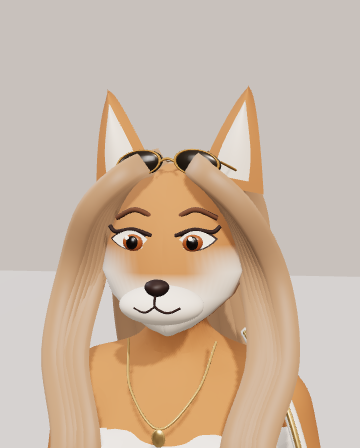
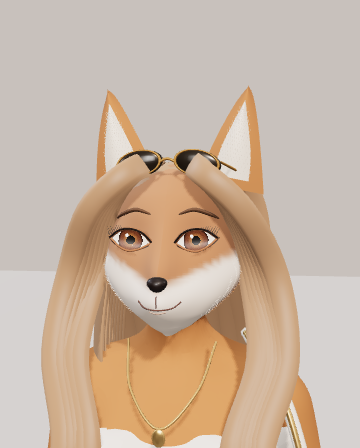
feat: sculpt detailed Sable face with independent iris gaze

diff --git a/preview/src/sable-face.js b/preview/src/sable-face.js
@@ -1,0 +1,155 @@
+import * as THREE from 'three';
+
+// Reference-led facial sculpt in metres. All resources are registered with the
+// owning look, so local and remote instances never mutate the cached rig.
+export function createSableFace(head, { add, ball, tube, material, textures }) {
+  const smooth = THREE.MathUtils.smoothstep;
+  const gauss = (x, width) => Math.exp(-((x / width) ** 2));
+  const amber = new THREE.Color('#ad7147'), ivory = new THREE.Color('#f3e4d6');
+  const dark = material('#211512', { roughness: .44 });
+  const furPixels = new Uint8Array(256 * 256 * 4);
+  for (let y = 0; y < 256; y++) for (let x = 0; x < 256; x++) {
+    const strand = Math.sin(x * 2.35 + Math.sin(y * .055) * 2.5);
+    const grain = Math.sin(x * 12.9898 + y * 78.233) * 43758.5453;
+    const value = 128 + strand * 25 + (grain - Math.floor(grain) - .5) * 18;
+    const n = (y * 256 + x) * 4;
+    furPixels[n] = furPixels[n + 1] = furPixels[n + 2] = value; furPixels[n + 3] = 255;
+  }
+  const fur = new THREE.DataTexture(furPixels, 256, 256);
+  fur.wrapS = fur.wrapT = THREE.RepeatWrapping; fur.repeat.set(3, 2); fur.needsUpdate = true; textures.add(fur);
+  const faceMaterial = material('#ffffff', { vertexColors: true, roughness: .84, bumpMap: fur, bumpScale: .00035, sheen: .22, sheenColor: ivory });
+
+  // Smooth radii, recessed sockets, nose bridge and paired muzzle pads belong
+  // to a single continuous surface rather than a stack of intersecting spheres.
+  const rings = [
+    [-.083,.009,.036,.023],[-.072,.029,.051,.025],[-.052,.055,.064,.027],
+    [-.027,.083,.078,.015],[.001,.101,.087,.003],[.036,.098,.094,-.004],
+    [.071,.094,.086,-.008],[.108,.080,.076,-.012],[.138,.055,.056,-.016],
+    [.154,.023,.029,-.018],[.158,0,0,-.018],
+  ];
+  function section(y) {
+    let i = 0; while (i < rings.length - 2 && y > rings[i + 1][0]) i++;
+    const t = THREE.MathUtils.clamp((y - rings[i][0]) / (rings[i + 1][0] - rings[i][0]), 0, 1);
+    return [1, 2, 3].map(k => {
+      const p0 = rings[Math.max(0, i - 1)][k], p1 = rings[i][k], p2 = rings[i + 1][k], p3 = rings[Math.min(rings.length - 1, i + 2)][k];
+      return .5 * ((2*p1) + (-p0+p2)*t + (2*p0-5*p1+4*p2-p3)*t*t + (-p0+3*p1-3*p2+p3)*t*t*t);
+    });
+  }
+  function surface(y, angle) {
+    const [rx, rz, cz] = section(y), front = Math.max(0, Math.cos(angle));
+    const x = Math.sin(angle) * Math.max(0, rx);
+    const muzzle = .031 * gauss(y + .032, .028) * Math.exp(-((x / .052) ** 4));
+    const bridge = .011 * gauss(x, .018) * gauss(y - .014, .055) + .019*gauss(x,.021)*gauss(y-.006,.021);
+    const socket = .010 * gauss(Math.abs(x) - .043, .025) * gauss(y - .049, .023);
+    return new THREE.Vector3(x, y, Math.cos(angle) * Math.max(0, rz) + cz + front ** 6 * (muzzle + bridge - socket));
+  }
+  function furColor(p, front) {
+    const feather = .0017 * Math.sin(p.x * 1900 + Math.sin(p.y * 270) * 2);
+    const marking = 1 - smooth(p.y + feather, -.025 + Math.abs(p.x) * .48, -.005 + Math.abs(p.x) * .48);
+    const color = amber.clone().lerp(ivory, marking * smooth(front, .05, .45));
+    const eyeshadow = gauss(Math.abs(p.x) - .045, .025) * gauss(p.y - .067, .022) * smooth(front, .5, .9);
+    return color.multiplyScalar(1 - eyeshadow * .22);
+  }
+  const rows = 80, cols = 96, positions = [], colors = [], uv = [], indices = [];
+  for (let row = 0; row <= rows; row++) for (let col = 0; col <= cols; col++) {
+    const y = -.083 + row / rows * .241, angle = col / cols * Math.PI * 2;
+    const p = surface(y, angle), c = furColor(p, Math.max(0, Math.cos(angle)));
+    positions.push(...p); colors.push(c.r, c.g, c.b); uv.push(col / cols, row / rows);
+    if (row < rows && col < cols) { const n = row * (cols + 1) + col; indices.push(n,n+1,n+cols+1,n+1,n+cols+2,n+cols+1); }
+  }
+  const skull = new THREE.BufferGeometry();
+  skull.setAttribute('position', new THREE.Float32BufferAttribute(positions, 3));
+  skull.setAttribute('color', new THREE.Float32BufferAttribute(colors, 3));
+  skull.setAttribute('uv', new THREE.Float32BufferAttribute(uv, 2)); skull.setIndex(indices); skull.computeVertexNormals();
+  add(head, skull, faceMaterial, [0,0,0], [1,1,1], 'Sable sculpted face');
+
+  // A softly rounded triangular nose sits into the integrated nasal bridge.
+  const nose=ball(head,material('#251b18',{roughness:.42,clearcoat:.2}),[0,-.006,.124],[.016,.010,.011],'Sable nose');
+  const np=nose.geometry.attributes.position;
+  for(let i=0;i<np.count;i++)np.setX(i,np.getX(i)*(.58+.42*(np.getY(i)+1)/2));
+  nose.geometry.computeVertexNormals();
+  for(const side of [-1,1])ball(head,dark,[side*.009,-.005,.132],[.0028,.0017,.0011],'Sable nostril');
+  const mouth = material('#644238', { roughness: .8 });
+  const onFace = points => points.map(([x,y]) => {
+    const [rx] = section(y), p = surface(y, Math.asin(THREE.MathUtils.clamp(x/rx,-1,1)));
+    return [x,y,p.z+.0007];
+  });
+  const philtrum=onFace([[0,-.020],[0,-.027],[0,-.035]]);
+  tube(head, mouth, philtrum, .00065, 'Sable philtrum');
+  tube(head, mouth, onFace([[-.028,-.029],[-.019,-.036],[0,-.038],[.019,-.036],[.028,-.029]]), .00085, 'Sable smile');
+  const lip = material('#c49b86', { roughness: .85 });
+  tube(head, lip, onFace([[-.011,-.041],[0,-.043],[.011,-.041]]), .0008, 'Sable lower lip');
+
+  // Radial chestnut iris fibres, warm collarette and dark limbal ring. Keeping
+  // the texture deterministic avoids per-instance visual shimmer or drift.
+  const irisPixels = new Uint8Array(256 * 256 * 4);
+  const irisBase=new THREE.Color('#754329'), irisGold=new THREE.Color('#bd8247'), irisColor=new THREE.Color();
+  for (let y = 0; y < 256; y++) for (let x = 0; x < 256; x++) {
+    const dx = (x-127.5)/127.5, dy = (y-127.5)/127.5, r = Math.hypot(dx,dy), a = Math.atan2(dy,dx);
+    const irisRadius = r / .57;
+    const fibre = Math.sin(a*93 + Math.sin(r*31)*.8)*.09 + Math.sin(a*173-r*13)*.045;
+    const ring = 1 - smooth(irisRadius,.78,1)*.78;
+    const c = irisColor.copy(irisBase).lerp(irisGold, (1-smooth(irisRadius,.35,.72))*.52).multiplyScalar((.90+fibre)*ring);
+    if (irisRadius < .36) c.set('#110c09');
+    if (irisRadius > 1) c.set('#f5e9d9');
+    const n = (y*256+x)*4;c.convertLinearToSRGB();irisPixels[n]=c.r*255;irisPixels[n+1]=c.g*255;irisPixels[n+2]=c.b*255;irisPixels[n+3]=255;
+  }
+  const irisMap = new THREE.DataTexture(irisPixels,256,256);irisMap.colorSpace=THREE.SRGBColorSpace;irisMap.needsUpdate=true;textures.add(irisMap);
+
+  const lid = material('#9f6845',{roughness:.8});
+  const glint = material('#fff8ee',{emissive:'#b0a396',roughness:.1});
+  function brow(points) {
+    const curve=new THREE.CatmullRomCurve3(points.map(p=>new THREE.Vector3(...p)));
+    const geometry=new THREE.TubeGeometry(curve,40,.0028,8,false),p=geometry.attributes.position;
+    for(let row=0;row<=40;row++){
+      const center=curve.getPointAt(row/40),taper=.08+.92*Math.sin(Math.PI*row/40)**.45;
+      for(let col=0;col<=8;col++){const i=row*9+col;const v=new THREE.Vector3().fromBufferAttribute(p,i).sub(center).multiplyScalar(taper).add(center);p.setXYZ(i,v.x,v.y,v.z);}
+    }
+    geometry.computeVertexNormals();add(head,geometry,material('#674934'),[0,0,0],[1,1,1],'Sable brow');
+  }
+  const eyes=[];
+  for (const side of [-1,1]) {
+    const socket=new THREE.Group();socket.name=`Sable eye ${side}`;socket.position.set(side*.044,.049,.075);socket.rotation.z=side*.12;head.add(socket);
+    const opening=new THREE.Group();opening.name='Sable eyelid opening';socket.add(opening);eyes.push(opening);
+    const almond=new THREE.Shape();almond.moveTo(-.029,0);almond.bezierCurveTo(-.016,.020,.014,.020,.029,0);almond.bezierCurveTo(.014,-.017,-.014,-.017,-.029,0);
+    const eyeGeometry=new THREE.ShapeGeometry(almond,32),ep=eyeGeometry.attributes.position;
+    for(let i=0;i<ep.count;i++)ep.setZ(i,.010+.007*(1-(ep.getX(i)/.029)**2));eyeGeometry.computeVertexNormals();
+    add(opening,eyeGeometry.clone(),dark,[0,0,-.0006],[1.07,1.07,1]);
+    const eyeMap=irisMap.clone();eyeMap.needsUpdate=true;textures.add(eyeMap);opening.userData.irisMap=eyeMap;
+    const eyeUV=eyeGeometry.attributes.uv;
+    for(let i=0;i<ep.count;i++)eyeUV.setXY(i,ep.getX(i)/.058+.5,ep.getY(i)/.058+.5);
+    add(opening,eyeGeometry,material('#ffffff',{map:eyeMap,roughness:.42,clearcoat:.12}),[0,0,0],[1,1,1],'Sable chestnut eye');
+    const eyeball = new THREE.Group();eyeball.name='Sable iris gaze';opening.add(eyeball);
+    ball(eyeball,glint,[-.004,.006,.018],[.0023,.0028,.0008],'Sable eye catchlight');
+    ball(eyeball,glint,[.005,-.006,.018],[.0008,.0008,.0005]);
+    // Lid curves move with the opening: no floating eyeliner when blinking.
+    tube(opening,lid,[[-.029,0,.010],[-.015,.0115,.016],[0,.015,.018],[.016,.0115,.016],[.029,0,.010]],.0024,'Sable upper eyelid');
+    tube(opening,dark,[[-.029,0,.012],[-.015,.0115,.018],[0,.015,.020],[.016,.0115,.018],[.029,0,.012]],.0013,'Sable upper lashes');
+    tube(opening,lid,[[-.029,0,.010],[-.014,-.010,.016],[0,-.014,.018],[.014,-.010,.016],[.029,0,.010]],.0014,'Sable lower eyelid');
+    // Tapered individual lashes are merged into one mesh per eye.
+    const lashes=[],lashIndices=[];
+    for(let i=0;i<9;i++){
+      const t=i/8,x=side*(.009+t*.018),y=.015*(1-(Math.abs(x)/.031)**2),length=.004+t*.006;
+      const start=lashes.length/3;
+      lashes.push(x-.0006,y,.019,x+.0006,y,.019,x+side*length*.75,y+length,.018);
+      lashIndices.push(start,start+1,start+2);
+    }
+    const lashGeometry=new THREE.BufferGeometry();lashGeometry.setAttribute('position',new THREE.Float32BufferAttribute(lashes,3));lashGeometry.setIndex(lashIndices);lashGeometry.computeVertexNormals();
+    add(opening,lashGeometry,material('#211512',{side:THREE.DoubleSide,roughness:.65}),[0,0,0],[1,1,1],'Sable individual lashes');
+    brow([[side*.019,.083,.076],[side*.039,.089,.076],[side*.060,.083,.067],[side*.071,.077,.057]]);
+  }
+
+  // Short swept cheek fibres soften the silhouette without a separate mesh per
+  // strand. Their colors follow the same mask as the continuous face beneath.
+  const fibres=[],fibreColors=[];
+  for(const side of [-1,1])for(let i=0;i<360;i++){
+    const t=((i*137)%367)/367,y=-.052+t*.077,angle=side*(1.02+((i*79)%359)/359*.51);
+    const p=surface(y,angle),c=furColor(p,Math.max(0,Math.cos(angle)));
+    const end=p.clone().add(new THREE.Vector3(side*(.0015+(i%5)*.00035),-.0015,.0005));
+    fibres.push(p.x,p.y+.00028,p.z+.0002,p.x,p.y-.00028,p.z+.0002,...end);
+    for(let k=0;k<3;k++)fibreColors.push(c.r,c.g,c.b);
+  }
+  const fuzz=new THREE.BufferGeometry();fuzz.setAttribute('position',new THREE.Float32BufferAttribute(fibres,3));fuzz.setAttribute('color',new THREE.Float32BufferAttribute(fibreColors,3));fuzz.computeVertexNormals();
+  add(head,fuzz,material('#ffffff',{vertexColors:true,roughness:1,side:THREE.DoubleSide}),[0,0,0],[1,1,1],'Sable cheek fur');
+  return eyes;
+}

diff --git a/preview/src/sable-look.js b/preview/src/sable-look.js
@@ -1,6 +1,7 @@
 import * as THREE from 'three';
 import { mergeGeometries } from 'three/addons/utils/BufferGeometryUtils.js';
 import { createReferenceStyle } from './reference-archetypes.js';
+import { createSableFace } from './sable-face.js';
 
 // Sable owns her geometry. The shared Jevica template, skeleton and other looks
 // remain untouched. Coordinates below are metres in each bone's rest frame.
@@ -33,8 +34,7 @@ export function createSableLook(avatar, root, appearance) {
   }
   const furMap=new THREE.DataTexture(texels,128,128);furMap.wrapS=furMap.wrapT=THREE.RepeatWrapping;furMap.needsUpdate=true;textures.add(furMap);
 
-  const cream = material('#f6e7d6',{roughness:.9});
-  const dark = material('#33201c',{roughness:.48}), gold = material('#c39553',{metalness:.8,roughness:.25});
+  const gold = material('#c39553',{metalness:.8,roughness:.25});
   // Remove the original human face and neckline from this instance's indexed
   // mesh. Hiding triangles, rather than moving vertices, preserves body weights.
   model.traverse(mesh => {
@@ -67,47 +67,8 @@ export function createSableLook(avatar, root, appearance) {
     mesh.material.needsUpdate=true;
   });
 
-  // One continuous tapered skull and muzzle; cream markings are vertex color,
-  // so there are no separate white balls or exposed human chin below the fox.
-  const positions=[], colors=[], indices=[];
-  const amber=new THREE.Color('#b87948'), ivory=new THREE.Color('#f5e6d5');
-  const rings=[[-.083,.010,.041,.020],[-.073,.033,.057,.024],[-.055,.058,.071,.025],[-.029,.087,.079,.014],[.005,.105,.087,.004],[.042,.100,.094,-.003],[.079,.095,.087,-.008],[.113,.081,.077,-.011],[.141,.057,.059,-.015],[.154,.024,.033,-.018],[.157,.001,.001,-.018]];
-  const segments=64;
-  for(let j=0;j<rings.length;j++)for(let i=0;i<=segments;i++){
-    const [y,rx,rz,cz]=rings[j],a=i/segments*Math.PI*2,front=Math.max(0,Math.cos(a));
-    const x=Math.sin(a)*rx,z=Math.cos(a)*rz+cz;
-    const marking=1-THREE.MathUtils.smoothstep(y,-.035+Math.abs(x)*.40,-.006+Math.abs(x)*.4);
-    const c=amber.clone().lerp(ivory,marking*THREE.MathUtils.smoothstep(front,.05,.45));
-    positions.push(x,y,z);colors.push(c.r,c.g,c.b);
-    if(j<rings.length-1&&i<segments){const n=j*(segments+1)+i;indices.push(n,n+1,n+segments+1,n+1,n+segments+2,n+segments+1);}
-  }
-  const skull=new THREE.BufferGeometry();skull.setAttribute('position',new THREE.Float32BufferAttribute(positions,3));skull.setAttribute('color',new THREE.Float32BufferAttribute(colors,3));skull.setIndex(indices);skull.computeVertexNormals();
-  add(head,skull,material('#ffffff',{vertexColors:true,roughness:.88}),[0,0,0],[1,1,1],'Sable sculpted face');
-  ball(head,cream,[0,-.035,.098],[.056,.026,.037],'Sable muzzle');
-  const nose=ball(head,dark,[0,-.010,.125],[.018,.011,.013],'Sable nose');
-  // Rounded triangular fox nose, narrowing toward the philtrum.
-  const np=nose.geometry.attributes.position;
-  for(let i=0;i<np.count;i++)np.setX(i,np.getX(i)*(.74+.26*(np.getY(i)+1)/2));
-  nose.geometry.computeVertexNormals();
-  tube(head,dark,[[0,-.018,.135],[0,-.032,.136],[.015,-.040,.133],[.031,-.034,.129]],.0015,'Sable smile');
-  tube(head,dark,[[0,-.032,.136],[-.014,-.040,.133],[-.029,-.035,.129]],.0013);
-
-  const eyes=[];
-  const white=material('#ffefd9',{roughness:.3}), iris=material('#99501f',{roughness:.25}), pupil=material('#160e0b',{roughness:.19}), gleam=material('#fff8e7',{emissive:'#a99b83',roughness:.1});
+  const eyes=createSableFace(head,{add,ball,tube,material,textures});
   for(const side of [-1,1]){
-    const socket=new THREE.Group();socket.name=`Sable eye ${side}`;socket.position.set(side*.043,.047,.074);socket.rotation.z=side*.13;head.add(socket);
-    const opening=new THREE.Group();opening.name='Sable eyelid opening';socket.add(opening);eyes.push(opening);
-    const almond=new THREE.Shape();almond.moveTo(-.027,0);almond.quadraticCurveTo(0,.029,.027,0);almond.quadraticCurveTo(0,-.021,-.027,0);
-    const eyeShape=new THREE.ShapeGeometry(almond,24),ep=eyeShape.attributes.position;
-    for(let i=0;i<ep.count;i++)ep.setZ(i,.009+.004*(1-(ep.getX(i)/.027)**2));
-    eyeShape.computeVertexNormals();
-    add(opening,eyeShape.clone(),dark,[0,0,-.001],[1.1,1.15,1]);
-    add(opening,eyeShape,white,[0,0,.002]);
-    ball(opening,iris,[-side*.003,-.001,.016],[.0135,.011,.006]);
-    ball(opening,pupil,[-side*.003,-.001,.021],[.0078,.009,.003]);
-    ball(opening,gleam,[-.004,.005,.024],[.003,.003,.0015]);
-    tube(socket,dark,[[-side*.026,.011,.010],[0,.016,.012],[side*.025,.010,.009],[side*.034,.016,.004]],.0028,'Sable upper lashes');
-    tube(head,material('#67422d'),[[side*.018,.080,.073],[side*.041,.089,.074],[side*.069,.078,.064]],.0035,'Sable brow');
     // Broad cupped ears with a softly curved outline and ivory inset.
     const ear=new THREE.Group();ear.position.set(side*.076,.120,-.024);ear.rotation.z=-side*.19;head.add(ear);
     function earSurface(inset){
@@ -125,6 +86,15 @@ export function createSableLook(avatar, root, appearance) {
     const inner=material('#f6e7d6',{roughness:1,side:THREE.DoubleSide});
     add(ear,earSurface(false),outer,[0,0,0],[1,1,1],'Sable ear');
     add(ear,earSurface(true),inner,[0,.014,.002]);
+    const fibres=[];
+    for(let i=0;i<240;i++){
+      const t=.05+((i*73)%241)/241*.83,u=(((i*131)%239)/239*2-1),w=.030*(1-t)**.72;
+      const x=u*w,y=.014+t*.112,z=Math.sin(Math.PI*t)*.008+(1-u*u)*.013+.009;
+      const length=.003+(i%6)*.0006;
+      fibres.push(x-.0003,y,z,x+.0003,y,z,x+u*.001,y+length,z+.002);
+    }
+    const earFur=new THREE.BufferGeometry();earFur.setAttribute('position',new THREE.Float32BufferAttribute(fibres,3));earFur.computeVertexNormals();
+    add(ear,earFur,inner,[0,0,.0005],[1,1,1],'Sable inner ear fur');
   }
 
   // Wide tapered locks with a curved cross-section form a continuous crown and
@@ -132,13 +102,13 @@ export function createSableLook(avatar, root, appearance) {
   const hair=material('#9b7353',{roughness:.52,sheen:.75,sheenColor:new THREE.Color('#d9b797'),side:THREE.DoubleSide});
   ball(head,hair,[0,.103,-.025],[.087,.056,.080],'Sable hair crown');
   const locks=[];
-  function lock(points,width,phase=0){
+  function lock(points,width,phase=0,wrap=0){
     const curve=new THREE.CatmullRomCurve3(points.map(p=>new THREE.Vector3(...p))),verts=[],idx=[],norm=new THREE.Vector3(),tangent=new THREE.Vector3();
     const rows=44,cols=12;
     for(let row=0;row<=rows;row++){
       const t=row/rows,p=curve.getPoint(t);curve.getTangent(t,tangent);
-      norm.set(tangent.y,-tangent.x,0).normalize();
-      const w=width*Math.min(1,(1-t)*7+.035);
+      norm.set(tangent.y,-tangent.x,0).normalize().applyAxisAngle(new THREE.Vector3(0,1,0),wrap);
+      const w=width*Math.min(1,t*10+.08,(1-t)*7+.035);
       for(let col=0;col<=cols;col++){
         const u=col/cols*2-1,q=p.clone().addScaledVector(norm,u*w);
         q.z+=Math.sqrt(Math.max(0,1-u*u))*width*.35+Math.cos(u*36+phase)*.0009;
@@ -156,6 +126,12 @@ export function createSableLook(avatar, root, appearance) {
   for(const side of [-1,1])for(let i=0;i<7;i++){
     const shift=i*.006;
     lock([[.015*side,.156+shift*.2,.002],[side*.047,.141,.064+shift*.4],[side*(.087+shift*.4),.092,.045+shift],[side*(.110+shift),.002,.025+shift*.5],[side*(.125+shift),-.11,.068],[side*(.094+shift),-.23,.115],[side*(.127+shift),-.36,.121],[side*(.102+shift),-.48+i*.009,.117]],.017,i);
+  }
+  // Temple layers wrap around the head, covering the side view between the
+  // front waves and the back curtain instead of leaving the scalp exposed.
+  for(const side of [-1,1])for(let i=0;i<8;i++){
+    const z=.015-i*.018;
+    lock([[side*.028,.150,z*.5],[side*.084,.095,z],[side*.103,.008,z-.012],[side*.119,-.13,z-.025],[side*.105,-.27,z-.044],[side*.128,-.41,z-.033],[side*.107,-.53+i*.006,z-.023]],.021,i,side*.95);
   }
   const hairGeometry=mergeGeometries(locks);locks.forEach(g=>g.dispose());add(head,hairGeometry,hair,[0,0,0],[1,1,1],'Sable ash blonde waves');
 
@@ -210,7 +186,10 @@ export function createSableLook(avatar, root, appearance) {
       if(!reducedMotion)tail.rotateY(Math.sin(now*.0015)*.085);
       eyes.forEach((eye,i)=>{
         eye.scale.y=Math.max(.04,1-(reducedMotion?0:i?blink.left:blink.right));
-        const pose=gaze[i];eye.position.x=(pose?.yaw??0)*.018;eye.position.y=-(pose?.pitch??0)*.016;
+        const pose=gaze[i],iris=eye.getObjectByName('Sable iris gaze');
+        iris.position.x=THREE.MathUtils.clamp(pose?.yaw??0,-.3,.3)*.010;
+        iris.position.y=-THREE.MathUtils.clamp(pose?.pitch??0,-.2,.2)*.010;
+        eye.userData.irisMap.offset.set(-iris.position.x/.058,-iris.position.y/.058);
       });
     },
     dispose(){

diff --git a/preview/tests/romance-look.test.js b/preview/tests/romance-look.test.js
@@ -98,10 +98,37 @@ test('Sable replaces the human face without changing the shared template or a se
   look.update(1300,{reducedMotion:true});assert.ok(tail.quaternion.angleTo(rest)<1e-6,'reduced motion restores the rest pose');
   const eye=root.getObjectByName('Sable eyelid opening');
   look.update(1400,{blink:{left:1,right:1},gaze:[{yaw:.2,pitch:.1}]});
-  assert.equal(eye.scale.y,.04);assert.ok(eye.position.x>0);
+  assert.equal(eye.scale.y,.04);assert.equal(eye.position.x,0,'gaze does not move the eyelids');
+  assert.ok(eye.getObjectByName('Sable iris gaze').position.x>0);
+  assert.ok(eye.userData.irisMap.offset.x<0,'the iris follows gaze within the fixed eye opening');
   look.update(1500,{reducedMotion:true,blink:{left:1,right:1}});assert.equal(eye.scale.y,1);
   let released=0;skin.geometry.addEventListener('dispose',()=>released++);
   const texture=tail.children[0].material.bumpMap;texture.addEventListener('dispose',()=>released++);
   look.dispose();assert.equal(released,2);assert.equal(skin.geometry,original);assert.equal(avatar.model.getObjectByName('Jevicalong01').visible,true);
   avatar.dispose();neighbor.dispose();
+});
+
+
+test('Sable detailed face has finite textured contours and independently owned eye maps',async()=>{
+  const source=await loadCharacterRig('jevica'),avatar=instantiateAvatar(source,{targetHeight:source.height,id:'player'});
+  const root=new THREE.Group();root.add(avatar.model);
+  const look=createRomanceLook(avatar,root,sharedAppearance('woman-casual'));
+  const face=root.getObjectByName('Sable sculpted face'),{position,normal,uv}=face.geometry.attributes;
+  assert.ok(uv,'fur relief has texture coordinates');
+  for(const attribute of [position,normal,uv])assert.ok(Array.from(attribute.array).every(Number.isFinite));
+  let front=0;for(let i=0;i<position.count;i++){
+    if(Math.abs(position.getX(i))<.001&&position.getZ(i)>.05&&position.getY(i)>.01&&position.getY(i)<.10){
+      assert.ok(normal.getZ(i)>0,'front-facing facial surface has outward normals');front++;
+    }
+  }
+  assert.ok(front>0);
+  const eyes=[];root.traverse(item=>{if(item.name==='Sable eyelid opening')eyes.push(item);});
+  assert.equal(eyes.length,2);assert.notEqual(eyes[0].userData.irisMap,eyes[1].userData.irisMap);
+  look.update(1000,{gaze:[{yaw:10,pitch:-10},{yaw:-10,pitch:10}],blink:{left:.5,right:0}});
+  assert.notEqual(eyes[0].userData.irisMap.offset.x,eyes[1].userData.irisMap.offset.x);
+  for(const eye of eyes){const gaze=eye.getObjectByName('Sable iris gaze');assert.ok(Math.abs(gaze.position.x)<=.003&&Math.abs(gaze.position.y)<=.002);}
+  assert.equal(eyes[0].scale.y,1);assert.equal(eyes[1].scale.y,.5,'independent blink moves its own lid');
+  const owned=new Set([face.material.bumpMap,...eyes.map(eye=>eye.userData.irisMap)]);let released=0;
+  for(const texture of owned)texture.addEventListener('dispose',()=>released++);
+  look.dispose();assert.equal(released,owned.size,'new face and eye textures are released');avatar.dispose();
 });

diff --git a/docs/character-forms.md b/docs/character-forms.md
@@ -249,3 +249,21 @@ back, portrait, walking and mobile views and exercises both local and remote
 avatar construction. Shared-town acceptance checks the selected Sable appearance
 reaching a second browser's rendered remote avatar. These checks establish
 functional behavior, not visual equivalence or production deployment.
+
+### Sable facial detail pass
+
+`preview/src/sable-face.js` authors a smoothly sampled fox face with recessed eye
+sockets, an integrated short muzzle, feathered cream cheek markings, directional
+fur relief, a rounded triangular nose and a surface-following smile. Chestnut
+iris fibres and pupils are painted into each curved eye opening. Independent
+gaze moves each iris texture and catchlights inside fixed eyelids; blink folds
+the eyelids and lashes together. Eye maps belong to the individual avatar and
+are disposed with the look. Reduced-motion behavior is unchanged.
+
+Short cheek and inner-ear fibres, tapered brows, and wrapping temple locks add
+close-up detail. The character selector portrait is regenerated from this same
+playable model with `node preview/e2e/sable-portrait.js`. This remains a procedural
+interpretation: it is not a pixel-identical reconstruction of the supplied art.
+Unit coverage checks finite UVs/normals, independent bounded gaze/blink, shared
+rig isolation and texture disposal; `npm run test:experience -- sable` checks the
+real local/remote loader and playable character journey.
